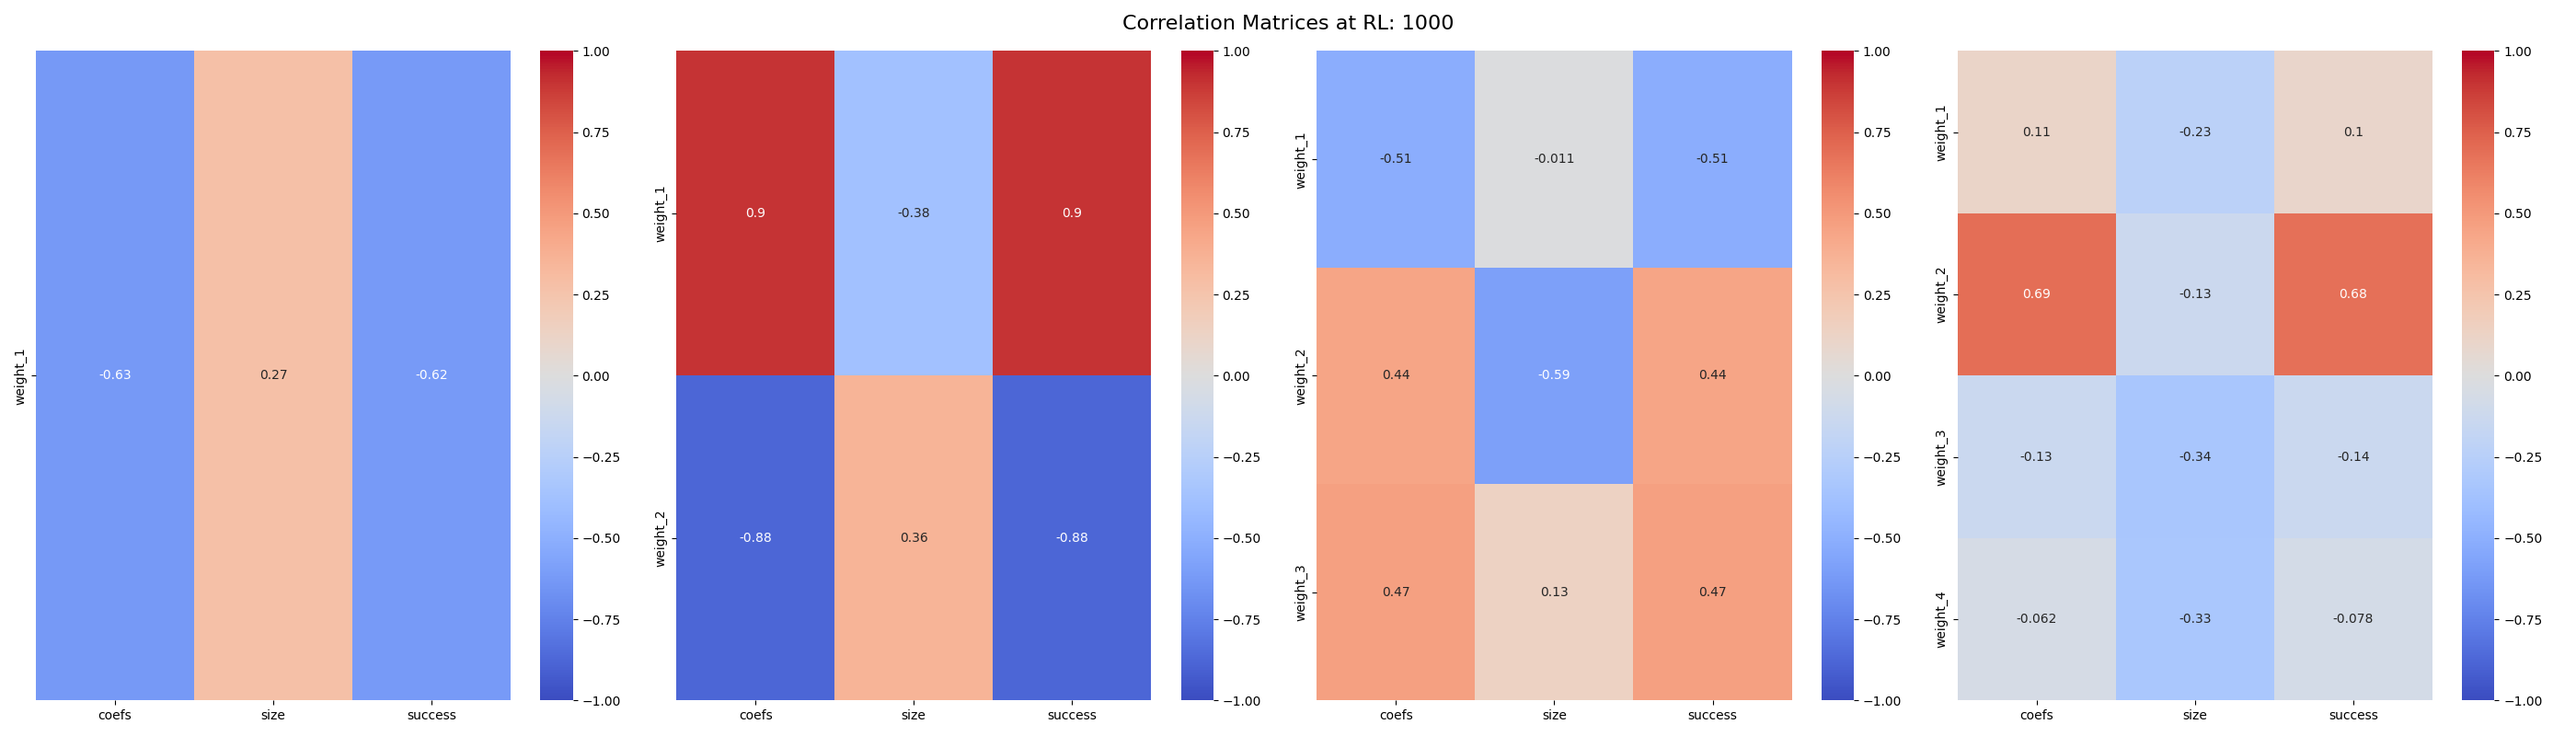
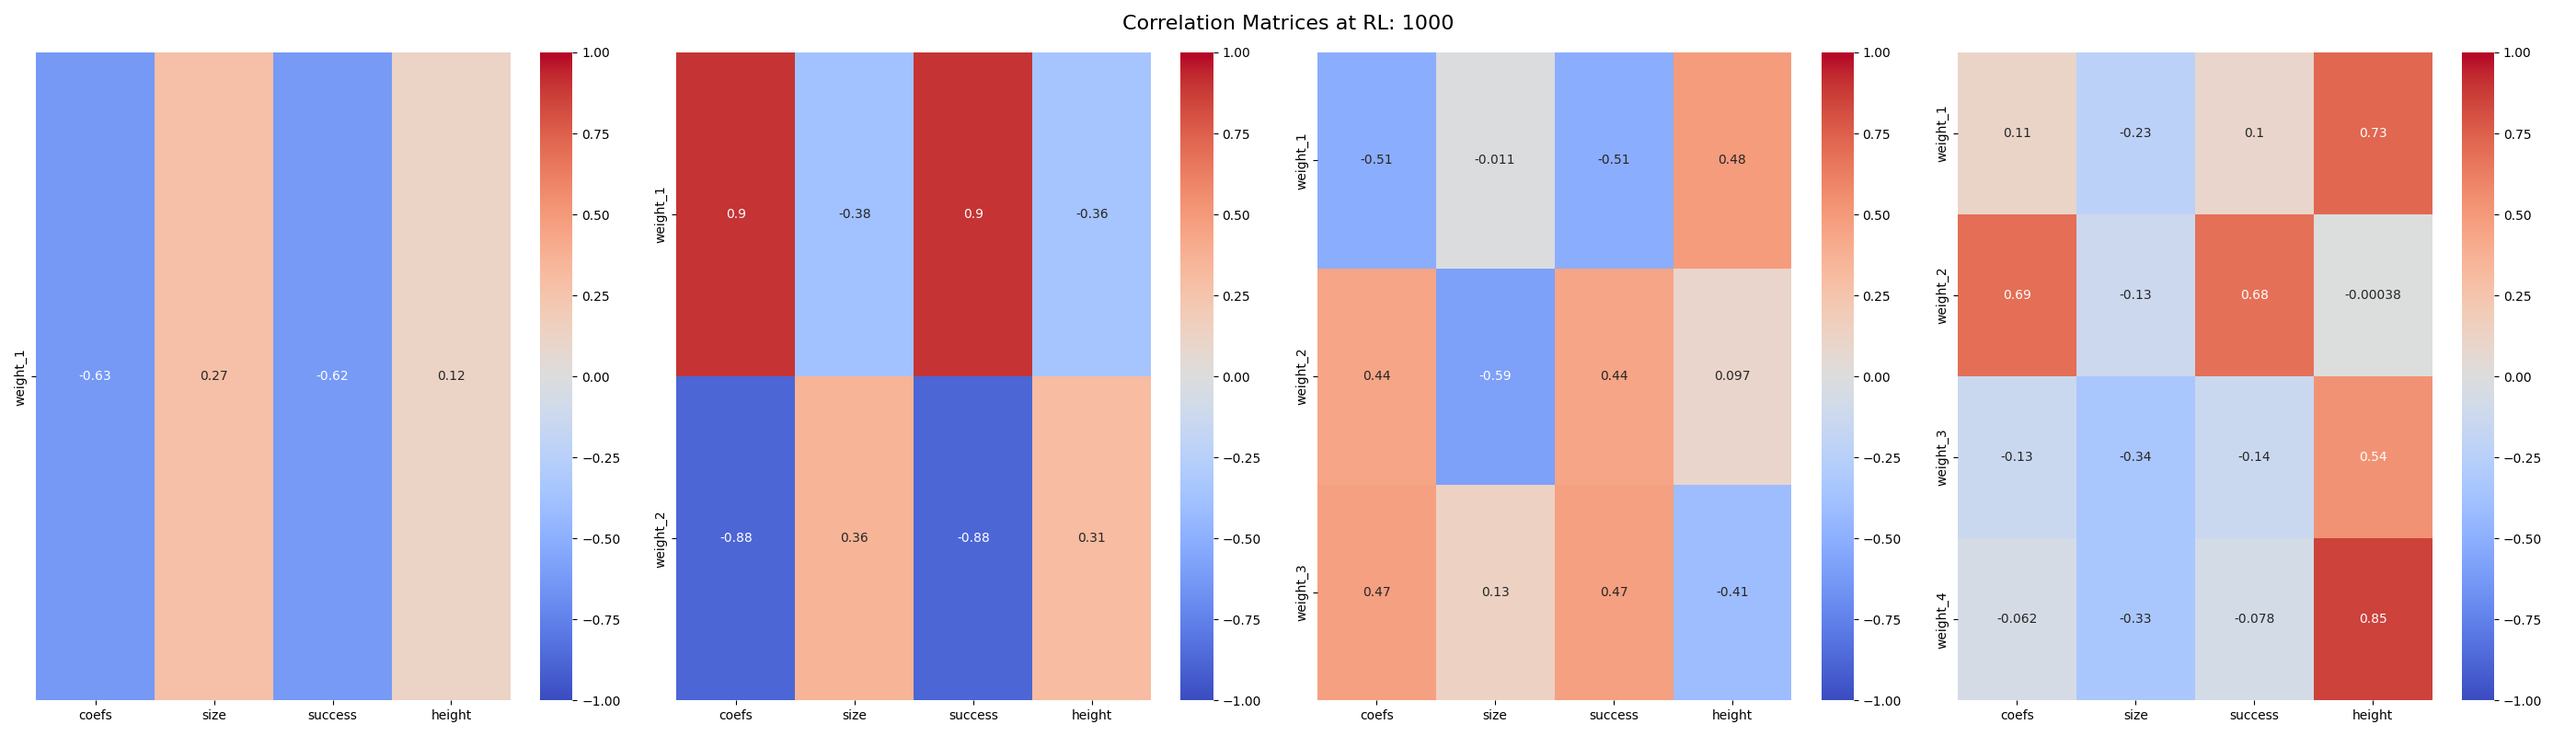
Implemented height embeddings

diff --git a/climber_embeddings.py b/climber_embeddings.py
@@ -12,8 +12,8 @@ def create_climbers_df(df, lr_model, pmf_model):
     climbers_df = (
         df
         .groupby('Name')
-        .agg({'Status': 'mean', 'Problem_ID': 'size'})
-        .rename(columns = {'Status': "success", 'Problem_ID': 'size'})
+        .agg({'Status': 'mean', 'Problem_ID': 'size', 'Height': 'mean'})
+        .rename(columns = {'Status': "success", 'Problem_ID': 'size', 'Height': 'height'})
     )
 
     lr_climber_names = lr_model.climber_vocab.get_itos()[1:]
@@ -52,7 +52,7 @@ def create_correlation_matrices(dfs, pca=False):
 
             prefix = 'PC' if pca else 'weight'
             rows = [row for row in df.columns if row.startswith(prefix)]
-            cols = ['coefs', 'size', 'success']
+            cols = ['coefs', 'size', 'success', 'height']
             df_corr = df.corr().loc[rows, cols]
             sns.heatmap(df_corr, annot=True, cmap='coolwarm', center=0, vmin=-1, vmax=1, ax=axs[num_factors-1])
 
@@ -84,6 +84,9 @@ if __name__ == '__main__':
     LATENT_FACTORS = [1, 2, 3, 4]
 
     df = pd.read_csv('data/men_data.csv')
+    ### Add heights from collected
+    heights = pd.read_csv('data/climbers_heights.csv', index_col=0)
+    df = df.merge(heights, on='Name', how='left')
 
     climber_dfs = {}
     for replacement_level in REPLACEMENT_LEVELS:
@@ -98,7 +101,7 @@ if __name__ == '__main__':
             climber_dfs[f'{replacement_level}_{num_factors}'] = climbers_df
 
             if num_factors > 1:
-                for column in ['success']:
+                for column in ['success', 'height']:
                     p = create_pc_scatter_plot(climbers_df, column)
                     p.save(f'results/climber_embeddings/scatter_plot/{column}/PCA_{replacement_level}_{num_factors}.png')
 
